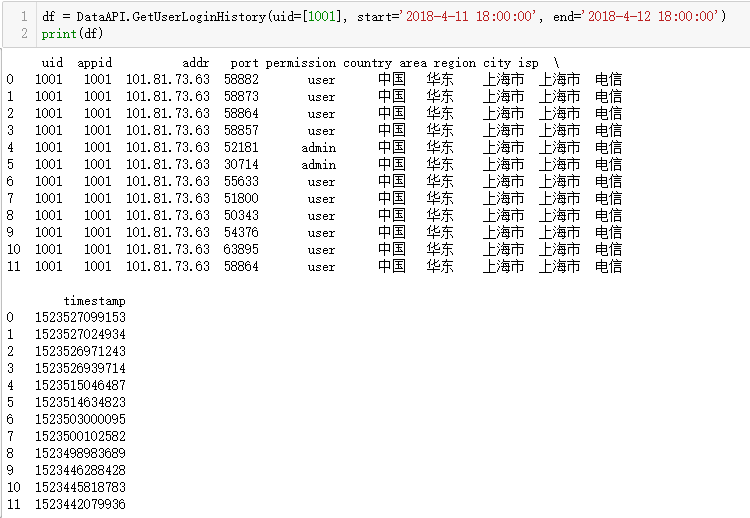
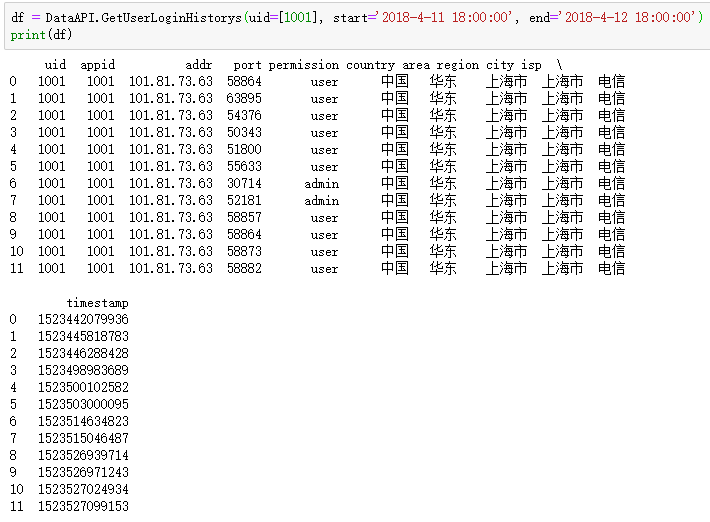
1.添加接口（获取设备类型信息、获取指定设备类型的所有设备、获取指定时间内设备属性更改次数、获取用户信息列表） 2.修改接口名称和相对应的图片

Changed region(s): [[0.0, 0.0, 1.0, 0.5251], [0.0, 0.556, 0.1859, 0.9884]]

diff --git a/markdown-data/jupyrer.md b/markdown-data/jupyrer.md
@@ -4,11 +4,13 @@
 
 DataAPI是python3的SDK，通过DataAPI可以从Axalent Cloud获取一些数据统计信息。
 
+import data_api as DataAPI  
+
 ## 2、 DataAPI
 
 ###  2.1 获取总的设备消息统计
 
-```DataAPI.GetDeviceMsgApp```
+```DataAPI.GetDeviceMsgsApp```
 
 参数：无
 
@@ -28,7 +30,7 @@ downbytes|Int|服务器端发向设备端的消息字节数|
 
 ###  2.2 获取总的web API消息统计
 
-DataAPI.GetWebApiMsgApp
+``` DataAPI.GetWebApiMsgsApp ``` 
 
 参数：
 
@@ -50,9 +52,37 @@ number|Int|API被调用的次数|
 
 ![webApi_message](../static/jupyter-images/webApi_message.png)
 
-###  2.3 获取用户登录历史记录统计
 
-DataAPI.GetUserLoginHistory
+### 2.3 获取用户信息列表
+
+DataAPI.GetUsersInformation
+
+参数：
+
+|参数|类型|描述|
+|----|----|----|
+|name|List|用户名列表，指定获取哪些用户名的用户信息。可不传，默认获取所有用户。|
+|skip|Int|跳过的用户信息条数，可不填，默认不跳过。|
+|limit|Int|返回用户信息的最大条数，默认500条，必须小于等于10000|
+
+返回值：pandas data frame
+
+
+|Index|类型|描述|
+|----|----|----|
+|0 ~ N|Int||
+|Columns|类型|描述|
+|_id|Int|用户ID|
+|permission|Str|用户级别|
+|user|Str|用户名|
+
+示例：
+![user_info_list](../static/jupyter-images/user_info_list.png)
+
+
+###  2.4 获取用户登录历史记录统计
+
+DataAPI.GetUserLoginHistorys
 
 参数：
 
@@ -86,9 +116,9 @@ timestamp|Int|登录时间戳|
 
 ![login_history](../static/jupyter-images/login_history.png)
 
-###  2.4 按天获取活跃用户数量统计
+###  2.5 按天获取活跃用户数量统计
 
-DataAPI.GetActiveUserDay
+DataAPI.GetActiveUsersDay
 
 
 |参数|类型|描述|
@@ -110,9 +140,9 @@ data|Str|日期，例如：2018-2-15|
 ![user_number](../static/jupyter-images/user_number.png)
 
 
-### 2.5 按天获取用户活跃时间段统计
+### 2.6 按天获取用户活跃时间段统计
 
-DataAPI.GetUserActiveTimeDay
+DataAPI.GetUserActiveTimesDay
 
 参数：
 
@@ -137,7 +167,7 @@ data|Str|日期，例如：2018-2-15|
 
 ![user_active](../static/jupyter-images/user_active.png)
 
-### 2.6 按天获取用户登录地点统计
+### 2.7 按天获取用户登录地点统计
 
 DataAPI.GetUserLoginLocationDay
 
@@ -178,9 +208,9 @@ date|Int|日期，例如：2018-2-15|
 
 ![login_adress](../static/jupyter-images/login_adrress.png)
 
-###  2.7 按天获取设备连接统计
+###  2.8 按天获取设备连接统计
 
-DataAPI.GetDeviceConnectionDay
+DataAPI.GetDeviceConnectionsDay
 
 参数：
 
@@ -209,9 +239,9 @@ date|Str|日期，例如：2018-2-15|
 
 
 
-### 2.8 按天获取设备上下线统计
+### 2.9 按天获取设备上下线统计
 
-DataAPI.GetDeviceIsonlineDay
+DataAPI.GetDeviceIsonlinesDay
 
 参数：
 
@@ -236,9 +266,9 @@ date|Str|日期，例如：2018-2-15|
 ![device-off-on-line](../static/jupyter-images/device-on-off-line.png)
 
 
-### 2.9 按天获取设备联动统计
+### 2.10 按天获取设备联动统计
 
-DataAPI.GetTriggerDay
+DataAPI.GetTriggersDay
 
 参数：
 
@@ -263,8 +293,8 @@ date|Str|日期，例如：2018-2-15|
 
 ![device_trigger](../static/jupyter-images/device-trigger.png)
 
-### 2.10 按天获取设备消息统计
-DataAPI.GetDeviceMsgDay
+### 2.11 按天获取设备消息统计
+DataAPI.GetDeviceMsgsDay
 
 
 |参数|类型|描述|
@@ -288,9 +318,9 @@ date|Str|日期，例如：2018-2-15|
 
 ![device_message](../static/jupyter-images/device-message.png)
 
-### 2.11 按天获取Web API消息统计
+### 2.12 按天获取Web API消息统计
 
-DataAPI.GetWebApiMsgDay
+DataAPI.GetWebApiMsgsDay
 
 |参数|类型|描述|
 |----|----|----|
@@ -310,3 +340,75 @@ date|Str|日期，例如：2018-2-15|
 
 示例：  
 ![webApi_message_day](../static/jupyter-images/webApi_message_day.png)
+
+### 2.13 获取设备类型信息
+
+DataAPI.GetDeviceTypes
+
+参数：
+
+|参数|类型|描述|
+|name|List|通过设备类型名称来获取设备类型信息。可不填，默认获取所有已经存在的设备类型信息。|
+
+返回值：pandas data frame
+
+|Index|类型|描述|
+|----|----|----|
+|0 ~ N|Int||
+|Columns|类型|描述|
+|_id|Int|设备类型ID|
+|name|Str|设备类型名称|
+|displayname|Str|设备类型描述|
+
+示例：
+
+![device_types](../static/jupyter-images/device_types.png)
+
+#### 2.14 获取指定设备类型的所有设备
+
+DataAPI.GetDevicesByTypeId
+
+参数：
+
+
+|Index|类型|描述|
+|----|----|----|
+|typeId|Int|设备类型ID|
+|skip|Int|跳过的设备数量，默认不跳过。|
+|limit|Int|返回的最大设备数量，可不设置，默认为500，最大数量必须小于等于10000|
+
+返回值：pandas data frame
+
+|Index|类型|描述|
+|----|----|----|
+|0 ~ N|Int||
+|Columns|类型|描述|
+|_id|Int|设备类型ID|
+|typeid|Int|设备类型ID|
+|category|Str|设备种类<br/> 1：网关类设备/WIFI类设备<br.> 2：子设备 <br/>3：虚拟设备|
+
+示例：
+
+![device_typesID](../static/jupyter-images/device_typesID.png)
+
+
+
+### 2.15 获取指定时间内设备属性更改次数
+
+DataAPI.GetDeviceAttributeNumber
+
+参数：
+
+|Index|类型|描述|
+|----|----|----|
+|devId|Int|设备类型ID|
+|name|Str|属性名称|
+|value|Str <br/> Int<br/> Bool<br/>|属性值，若不指定，则默认为所有属性值。|
+|start|Str|查询的起始时间，可不传，默认获取终止时间前30天记录。|
+|end|Str|查询的终止时间，可不传，默认终止时间为现在。|
+
+返回值：Int
+
+示例：
+
+![device_attribute_number](../static/jupyter-images/device_attribute_number.png)
